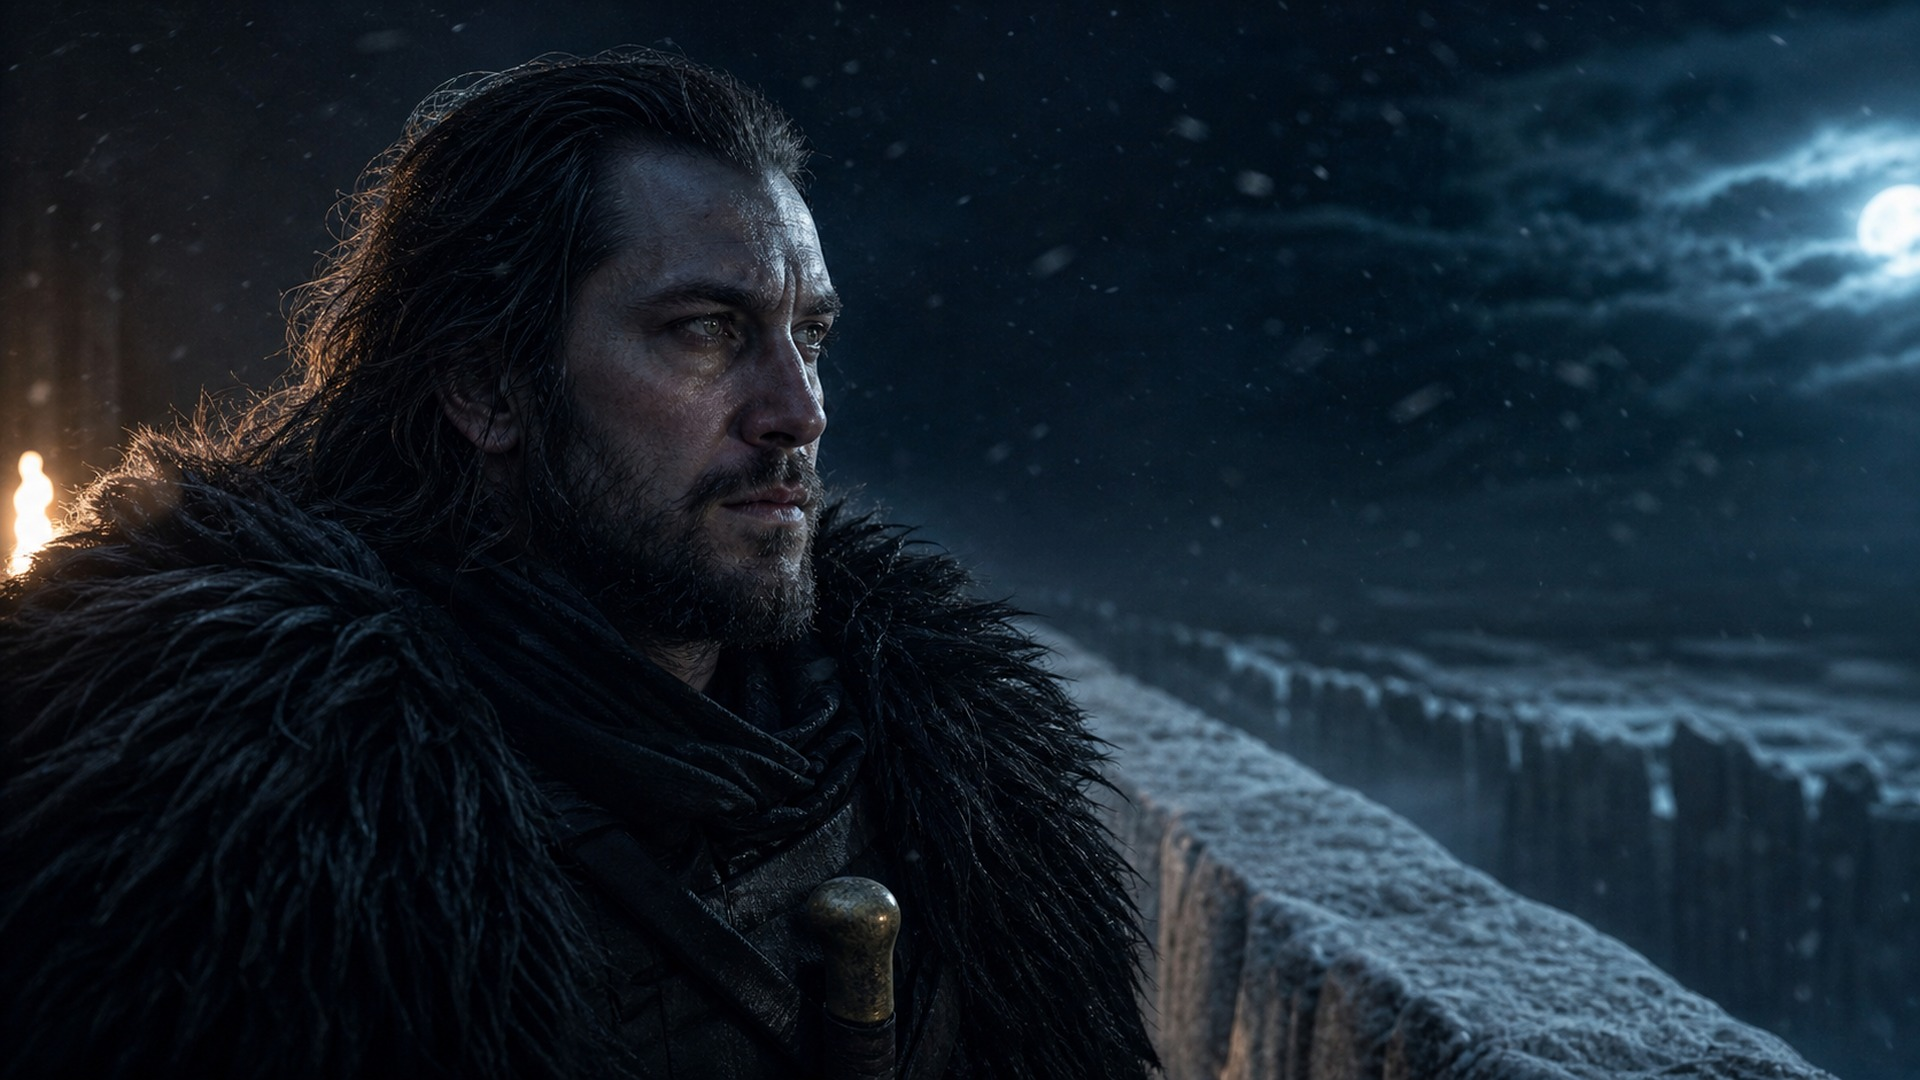
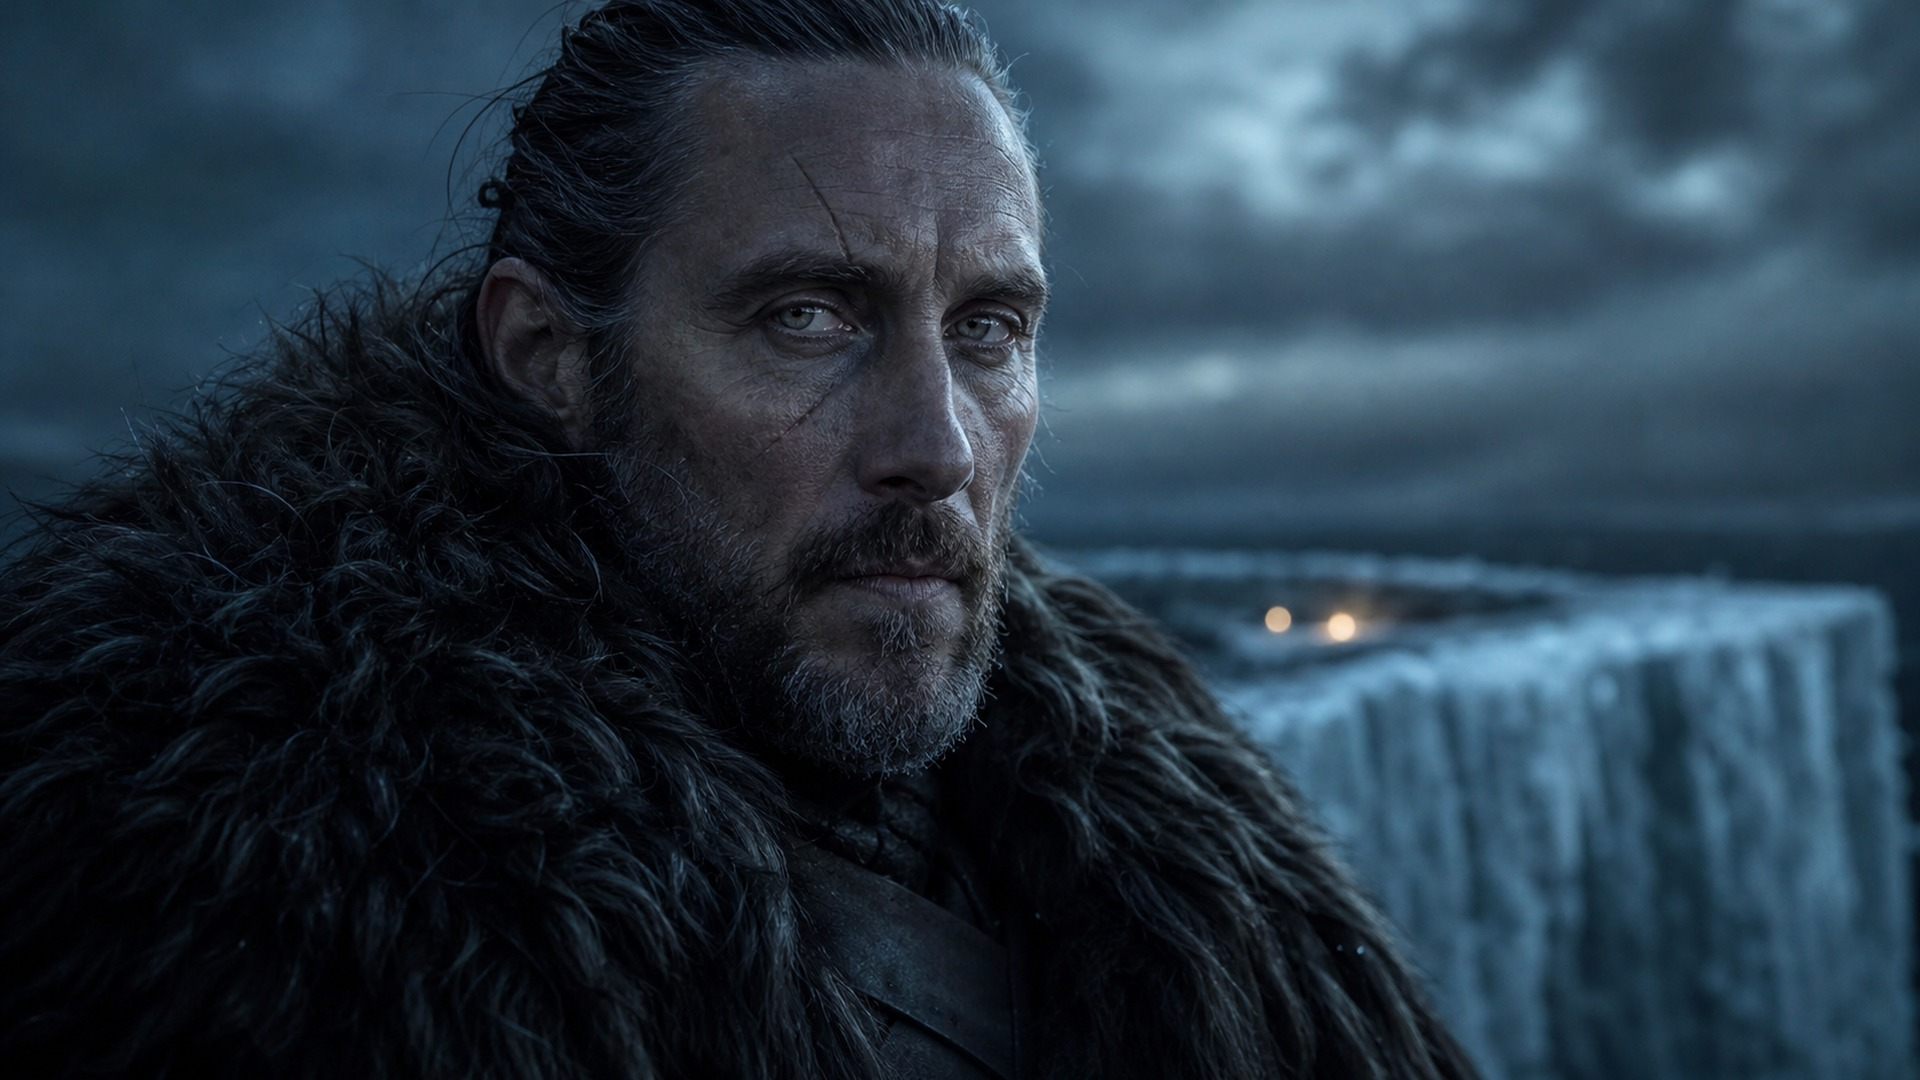
GOT001 likeness audit: no actor faces. Redesign Night's King anchor, book Bran/Sam/Hodor, redo S004/S005/S021/S023/S026; new S030-S033; Westeros policy v1.1 4b, looks v1.1, QC rule; tracker v2.31

diff --git a/projects/dune_archives/data/got001_images.py b/projects/dune_archives/data/got001_images.py
@@ -16,7 +16,7 @@ STYLE = ('ultra-realistic 3D cinematic reconstruction, photoreal, physically bas
          'full-bleed wide 16:9 cinematic frame, important action in the central band.')
 PALETTE = ('Far North palette: glacier blue, charcoal black, bone white and torch amber; breath fog, drifting snow, '
            'moonlight on ice.')
-NO_TEXT = ('Book-accurate original design, NOT the HBO TV design, original faces not resembling any actor. '
+NO_TEXT = ('Book-accurate original design, NOT the HBO TV design. Every face is an invented unknown person who must NOT resemble any actor or celebrity, especially the cast of Game of Thrones or House of the Dragon. '
            'No text, letters, runes, logos or symbols anywhere in the image.')
 NEGATIVE = ('text, letters, runes, words, watermark, logo, caption, actor likeness, celebrity, TV still, cartoon, anime, '
             'illustration, oversaturated, neon, gore, blood, plate armour in Age of Heroes scenes, horned helmets, '
@@ -26,19 +26,14 @@ CAMERA = {'EW': 'epic wide shot, low horizon, 24mm lens', 'EST': 'establishing s
           'INS': 'macro insert, 100mm lens', 'OH': 'high overhead view'}
 
 CAST = {
-    'NIGHTS_KING': ('the Night\'s King, thirteenth Lord Commander of the Night\'s Watch, a First Men warrior of about '
-                    'thirty-five, long solemn northern face, dark brown hair to the shoulders, short dark beard, grey eyes, '
-                    'proud and utterly fearless expression, all in black: roughspun wool, black boiled leather, heavy black '
-                    'fur cloak, a bronze-hilted bronze longsword'),
+    'NIGHTS_KING': ("the Night's King, thirteenth Lord Commander of the Night's Watch, a First Men warrior of about forty, a gaunt hard weathered face with hollow cheeks, high cheekbones and a long straight nose, pale grey eyes, iron-grey streaked dark hair pulled back tight into a single warrior's braid, a close-cropped grey-shot beard, a thin hard mouth, frost-reddened skin, an old pale scar through one eyebrow, utterly fearless expression, all in black: roughspun wool, black boiled leather, a heavy black bearskin cloak, a bronze-hilted bronze longsword"),
     'CORPSE_QUEEN': ('the corpse queen, an ageless woman of unearthly beauty, skin white as the moon with a faint blue chill, '
                      'luminous eyes like blue stars, long straight silver-white hair, high-necked flowing robes of frost-pale '
                      'grey with white fur at the collar, fully covered, no jewellery, serene and unsettling'),
     'OLD_NAN': ('Old Nan, an extremely old woman, tiny and bent, deeply wrinkled face, pale filmy eyes, a few wisps of white '
                 'hair under a plain linen cap, grey wool shawl, knitting needles in her hands'),
-    'BRAN': ('Bran Stark, a boy of about ten, thick auburn hair, blue eyes, thoughtful face, grey wool and a brown fur cloak; '
-             'his legs are crippled, so he rides in a wicker basket'),
-    'SAM': ('Samwell Tarly, a very heavy young man of about sixteen, round soft pink face, beardless, kind frightened eyes, '
-            'Night\'s Watch blacks of worn wool and a black cloak'),
+    'BRAN': ('Bran Stark as in the books, a slight boy of nine with thick AUBURN-RED Tully hair and deep blue Tully eyes, a thoughtful freckled face, grey wool and a brown fur cloak; his legs are crippled, so he rides in a wicker basket'),
+    'SAM': ("Samwell Tarly as in the books, a YOUNG MAN of seventeen with fully adult proportions, enormously fat, a round soft PINK moon face with several chins, clean-shaven smooth skin, fine fair sandy-blond hair, small pale eyes, soft plump hands, kind and frightened, Night's Watch blacks of worn wool straining over his belly and a black cloak, NOT a child"),
     'COLDHANDS': ('Coldhands, a rider in the black of the Night\'s Watch, face hidden behind a black wool scarf so only shadowed '
                   'eyes show, hands black and bloodless, riding a huge grey elk with broad antlers'),
     'JORAMUN': ('Joramun, King-beyond-the-Wall in the Age of Heroes, a huge wildling chieftain with a wild grey-streaked beard, '
@@ -47,7 +42,7 @@ CAST = {
     'KING_OF_WINTER': ('the Stark King of Winter in the Age of Heroes, a tall stern man with a long solemn face, dark hair, grey '
                        'eyes and a short dark beard, a grey direwolf pelt over his shoulders, bronze scale and furs, wearing '
                        'an open circlet of bronze surmounted by nine black iron spikes shaped like longswords'),
-    'HODOR': 'Hodor, a gentle simple giant of a stableman nearly seven feet tall, shaggy brown hair and beard, plain brown wool',
+    'HODOR': ('Hodor, a gentle simple-minded GIANT of a stableman nearly seven feet tall, towering head and shoulders over everyone, huge and broad, a slack amiable face with a bushy brown beard and shaggy brown hair, plain brown wool'),
     'MEERA': 'Meera Reed, a lean young woman of sixteen, brown hair, green eyes, worn green-brown leathers, a three-pronged frog spear and a net',
     'JOJEN': 'Jojen Reed, a small solemn boy of thirteen, green eyes, green-brown clothes',
     'SUMMER': 'Summer, a huge silver-grey direwolf with golden eyes',
@@ -60,7 +55,7 @@ CAST = {
     'SHOW_NK': ('a tall gaunt figure seen ONLY as a dark silhouette, a ring of small icy horns forming a crown on his bald '
                 'head, no face visible'),
     'GIANT': 'a giant as in the books: ten to twelve feet tall, covered in thick shaggy hair, massive shoulders, broad flat face',
-    'YGRITTE': 'Ygritte, a young wildling woman with thick wild red hair, a freckled face and pug nose, furs and a horn-and-weirwood bow',
+    'YGRITTE': ("Ygritte as in the books, a wildling spearwife of about eighteen with thick wild red hair 'kissed by fire', a round peasant face, a pug nose, slightly crooked teeth, freckles and pale blue eyes, furs and a horn-and-weirwood bow"),
     'YOUNG_BRAN': 'Bran Stark aged seven, thick auburn hair, blue eyes, small and eager',
     'UNCLE_BRANDON': 'Brandon Stark, a handsome wild young northern lord of twenty, long face, dark hair, grey eyes, fierce grin',
 }

diff --git a/projects/dune_archives/00_master/MASTER_INDEX_AND_TRACKER.md b/projects/dune_archives/00_master/MASTER_INDEX_AND_TRACKER.md
@@ -86,7 +86,7 @@ Folders 10, 11, 12, 19, 21, 22, 23 and 24 are empty on purpose. They fill once p
 |---|---|---|---|---|---|---|---|---|---|---|---|---|
 | DUN003 | Dune Messiah Explained Before Part Three | STANDARD | APPROVED (topic + 15 min + 150 imgs, 2026-11-23) | ☑ | ☑ 15 min | ☑ 150 imgs / 15 batches | v1.0 APPROVED | v1 (178 shots) | B001 ✅ · B002 ✅ · B003 ✅ · B004 ✅ · B005 ✅ · B006 ✅ · B007 4/10 (+Duncan pending, 1 fix) · B008 3/10 | — | — | — |
 | DUN001 | The Butlerian Jihad: The War Against the Thinking Machines | EPIC | **MASTER v1 ON DRIVE** 22_edit `1PpbtA6EKYWP-Inc31NuFSd0R0Y4immpj` (492.8 MB, 11:54, 1080p24, ≈−14.7 LUFS / −0.9 dBTP) — awaiting director review | ☑ | ☑ 11:54 | ☑ 150 imgs / 15 batches | v1.0 APPROVED · rev 1.1 (VI softened, approved) | data/dun001.py (168 cuts, 42 gfx incl. chapter cards) | B001–B015 ✅ **150/150 QC PASS** (anchors: Erasmus, Serena, Vorian, Xavier, Iblis, Agamemnon, Abulurd) | VO ✅ 13/13 · aligned 100% · maps A/B/C ✅ · mix ✅ −14 LUFS/−1 dBTP | — | — |
-| GOT001 | The Night King: Who Was He Really? | EPIC | IN PRODUCTION (script approved; VO 12/12; stills 27/150; CI align triggered) | ☑ | ☑ VO 598.7 s, 12/12 sections → programme ≈10:40 (runtime option A) | ☐ 150 imgs (27 PASS: B001 10/10, B002 10/10, B003 7 PASS + S021/S026 FIX) | v1.0 APPROVED | — | — | — | — | — |
+| GOT001 | The Night King: Who Was He Really? | EPIC | IN PRODUCTION (script approved; VO 12/12; aligned 100%; timeline 10:35; stills 33/150) | ☑ | ☑ VO 598.7 s, 12/12 sections → programme ≈10:40 (runtime option A) | ☐ 150 imgs (33 PASS: B001–B003 30/30, B004 3/10) | v1.0 APPROVED | — | — | — | — | — |
 
 ## E. Data counts (from `00_master/build_summary.json`)
 
@@ -707,5 +707,6 @@ Index/QC v21 Doc: `1Xd5uubuVr8HSOOF7w4-m3S2es9A0PhxvI7hFvTYLZpw`. S012/S016 turn
 | v2.28 | 2026-11-24 | **GOT001 script v1.0 APPROVED** (fact-check fixes: Nightfort, Black Gate location, Coldhands' spells line). End card → WATCH NEXT · BEFORE THE FIRST MEN · The Ancient World of Westeros. Voice-14 VO recorded for H, P, I–VIII (549 s; CA/CB next turn). Look-book + BATCH001 (anchors: Night's King, corpse queen, Old Nan, Bran, Sam, Coldhands, Joramun, King of Winter, Nightfort, Black Gate): 9 PASS, S005 Sam FIX (too young) |
 | v2.29 | 2026-11-24 | **GOT001 VO complete** (CA 9.5 s, CB 20.3 s; 12 takes = 598.7 s). Runtime option A (keep length, no added words) applied by default. `data/got001.py` written: timeline data for all 12 sections, verified word for word against the VO text; 150-shot plan in `data/got001_images.py` (batch JSONs 001–015), 149/150 shots placed (S146 spare). S005 Sam redone (heavy young man, PASS). BATCH002 S011–S019 PASS (show king only as silhouette). Stills 20/150 |
 | v2.30 | 2026-11-24 | GOT001: S020–S029 generated: 8 PASS (broken tower, weirwood courtyard, Bran party arriving, Rat Cook's rat, sentinels in the ice, empty seat, Long Night, the Wall rising), 2 FIX (S021 hall has a stray figure; S026 Night's King reads as the HBO Jon Snow actor). Workflows `got001_align/mix/master.yml` added; music fetch list (10 Kevin MacLeod tracks, all verified in DUN001); whisper name hints for Westeros; **CI align triggered**. Stills 27/150 |
+| v2.31 | 2026-11-25 | **Likeness rule (director): no actor or celebrity faces; book versions of characters.** Audit of all GOT001 face stills: redid S001 (Night's King anchor redesigned: about 40, grey-streaked braid, scarred brow), S004/S023 (Bran now Tully auburn; Hodor towers), S005 (Sam: pink moon face, fair, clean-shaven), S026; S021 redone empty. Spot-check of DUN003 Paul/Chani/Alia/Irulan: no film-cast resemblance. Westeros policy v1.1 §4b, looks v1.1 (Bran, Sam, Hodor, Meera, Jojen, Ygritte, Night's King rows), visual bible QC (face check mandatory, all worlds). New: S030 Brandon the Builder with giants, S031 children of the forest, S032 first oath, S033 brothers on the Wall. CI align 100%; first timeline build 10:35. Stills 33/150 |
 
 > Turn 22 note: the old manifests v11, continuity v1.4 and original tracker Doc have their Drive descriptions set to SUPERSEDED, pointing at the new IDs above. The Drive tracker v2.12 Doc is a snapshot taken before its own ID was added here.

diff --git a/projects/dune_archives/worlds/westeros/WESTEROS_BOOK_LOOKS.md b/projects/dune_archives/worlds/westeros/WESTEROS_BOOK_LOOKS.md
@@ -1,4 +1,4 @@
-# WESTEROS — Book-Accurate Looks (characters, creatures, objects, places) · v1.0 · 2026-11-24
+# WESTEROS — Book-Accurate Looks (characters, creatures, objects, places) · v1.1 · 2026-11-25
 
 Purpose: the image-prompt source of truth. **Books first** (see `WESTEROS_CANON_POLICY.md`).
 
@@ -22,7 +22,7 @@ Ages are at the start of *A Game of Thrones* unless stated. **Show differences**
 | **Jon Snow** (14) | ◻ Stark look: lean, long face, dark brown hair, grey eyes so dark they look almost black. Later carries *Longclaw*. | Not the curly-haired adult of the show. He is a teenager. |
 | **Sansa** (11) | ◻ Tully auburn hair, blue eyes, considered beautiful. As "Alayne Stone" in the Vale: hair dyed dark brown. | — |
 | **Arya** (9) | ◻ Stark look: long horse-like face ("Arya Horseface"), brown hair, grey eyes, thin. Sword *Needle* (a slim bravo's blade). | Much younger than the show. |
-| **Bran** (7) / **Rickon** (3) | ◻ Tully look. | — |
+| **Bran** (7; 9 in ASOS) / **Rickon** (3) | ◻ Tully look: thick auburn-red hair, deep blue eyes. Bran is slight; after the fall he rides in a wicker basket on Hodor's back. | Show Bran has a brown mop; keep him auburn. |
 
 ### House Lannister
 
@@ -56,14 +56,18 @@ Ages are at the start of *A Game of Thrones* unless stated. **Show differences**
 | **Davos Seaworth** | ◻ Stannis shortened the fingers of his left hand by the last joint. Davos kept the finger bones in a pouch around his neck, which was lost at the Blackwater. | — |
 | **Petyr Baelish** | ◻ Slight, grey-green eyes, a small pointed beard, dark hair touched with grey, and a mockingbird pin. | — |
 | **Varys** | ◻ Bald, plump, powdered, smelling of lavender, in soft silks. | — |
-| **Samwell Tarly** | ◻ Very fat, pink-faced, kind. | — |
+| **Samwell Tarly** (17) | ◻ Enormously fat, a soft pink moon face with several chins, soft hands, kind and frightened eyes. Channel design: clean-shaven, fair sandy hair. | Avoid the show's dark-haired, stubbled look. |
 | **Theon / Reek** | ◻ Theon is lean, dark and smirking. As Reek (ADWD) he looks starved and aged, with white hair, broken or missing teeth, and missing fingers and toes (show the hands only in non-graphic framing). | — |
 | **Daario Naharis** | ◻ A three-pronged beard dyed blue, a gold-painted mustache, a gold tooth, and dyed blue curls. | Nothing like the show. |
 | **Missandei** (10) | ◻ A child of Naath with golden eyes. | Not the adult of the show. |
 | **Euron Greyjoy** | ◻ An eyepatch, one "smiling" blue eye, and lips stained blue from shade-of-the-evening. | Nothing like the show. |
 | **Oberyn Martell** | ◻ Lean, sharp-featured, black hair streaked with silver, a widow's peak. | — |
 | **Bloodraven / the three-eyed crow** | ◻ An albino who is nearly a skeleton. One red eye; the other socket is empty, and a weirwood root grows through it. He sits enthroned in roots. | — |
-| **Hodor** | ◻ Close to seven feet tall, simple and gentle. | — |
+| **Hodor** | ◻ Close to seven feet tall, simple and gentle; he towers over everyone. Carries Bran in a wicker basket. | Make him a giant, not just tall. |
+| **Meera Reed** (16) | ◻ Slender, brown hair, green eyes; frog spear (trident), net and a long knife. | — |
+| **Jojen Reed** (13) | ◻ Small and grave; moss-green eyes; dressed all in green. Has greendreams. | — |
+| **Ygritte** | ◻ Red hair "kissed by fire", a round peasant face, pug nose, slightly crooked teeth, pale blue eyes. Not conventionally beautiful. | Avoid the show's look; use these features. |
+| **The Night's King** (legend) | ◻ No physical description in the books. Channel design (GOT001): about 40, gaunt, iron-grey-streaked hair in a braid, a close grey-shot beard, a scar through one eyebrow, pale grey eyes, black bearskin, bronze sword. | Never the show's Night King (show-only, silhouette only). Must not drift to the Jon Snow type. |
 
 ## 2. Creatures
 

diff --git a/projects/dune_archives/worlds/westeros/WESTEROS_CANON_POLICY.md b/projects/dune_archives/worlds/westeros/WESTEROS_CANON_POLICY.md
@@ -1,4 +1,4 @@
-# WESTEROS — Canon Policy (Mythic Archives) · v1.0 · 2026-11-24
+# WESTEROS — Canon Policy (Mythic Archives) · v1.1 · 2026-11-25
 
 **Director's rule (2026-11-24):** *"GoT follows books, interviews, articles, and shows — but books are the first priority. Bring the books to life, from stories to artworks, down to small attributes and characteristics."*
 
@@ -39,6 +39,31 @@
   - Expect TTS and image moderation to block graphic lines, as happened on DUN001. Show softened lines to the director before recording.
 - **No actor likenesses** from HBO or the films. Every character gets an original, book-described design (see the looks file).
 - **No copying any artist's painting.** GRRM-approved art guides *what* a thing is (the throne's scale, asymmetry and steps), not a copy of the composition.
+
+## 4b. Likeness rule: no actor or celebrity faces (v1.1, director's order, 2026-11-25)
+**Why it matters on YouTube:**
+- A photoreal AI image that looks like a real actor counts as synthetic content simulating an identifiable person. That person can file a privacy request to have the whole video removed; blurring is the only partial fix.
+- Realistic likenesses also trigger YouTube's altered-or-synthetic disclosure rules, and HBO's costume and make-up designs (the show's Night King, for example) are their designs.
+- An original, book-described face is legally cleaner and is the channel's selling point: *Westeros the way Martin wrote it*.
+
+**Rules:**
+1. Every face is an invented unknown person. Every prompt says: "must NOT resemble any actor or celebrity, especially the cast of Game of Thrones or House of the Dragon".
+2. Anchor each character on **book attributes that differ from the show casting**. Hair colour, age, build and the scars or marks Martin gives them are the strongest levers (see the looks file).
+3. Show-only characters and scenes (the show's Night King, the show-only Arya scene) appear only as silhouettes, from behind, or as hands and objects. No face, no HBO make-up.
+4. **Face QC is mandatory for every still with a visible face.** View it at full size and ask: "Would a fan name an actor?" If yes or maybe, mark it FIX and redo it. The redo uses the corrected anchor and goes into the next wave of the same turn.
+5. Delivered episodes are not exempt. If a likeness is found later, replace the still and re-render.
+
+**Known drift types** (the generator pulls these looks toward the show; counter them on purpose):
+
+| Look that drifts | Drifts toward | Counter with book attributes |
+|---|---|---|
+| Dark-haired bearded man in a black Night's Watch fur cloak | Show's Jon Snow | Age, gaunt or long face, grey-streaked or braided hair, scars, a different beard |
+| Heavy young man in black | Show's Sam | Pink moon face, several chins, clean-shaven, fair hair |
+| Boy with a brown mop of hair | Show's Bran | Tully auburn-red hair, blue eyes, freckles, age 7–9 |
+| Red-haired wildling girl | Show's Ygritte | Round peasant face, pug nose, slightly crooked teeth, pale blue eyes |
+| Silver-haired young woman | Show's Daenerys | Age 13–15, violet eyes, book costume |
+
+GOT001 casualties fixed in turn 67: S001 (Night's King anchor redesigned), S004, S005, S023, S026.
 
 ## 5. Practical consequence for production
 The visual identity of a Westeros episode comes from **book descriptions**, not the show: the hulking Iron Throne, the Others in their shifting armor, Tyrion's mismatched eyes and ruined nose, the Hound's missing ear, the two-legged dragons. These differences are a selling point: *"This is Westeros the way Martin wrote it."*

diff --git a/projects/dune_archives/26_learning_log/CHANNEL_LEARNING_LOG.md b/projects/dune_archives/26_learning_log/CHANNEL_LEARNING_LOG.md
@@ -207,3 +207,5 @@
 - **Data-file check before images:** writing `data/<ep>.py` before most stills exist lets the anchor and coverage check run early (149/150 shots placed), so later batches generate exactly the shots the edit needs.
 - **Westeros-specific likeness trap:** a dark-haired, bearded man in a black fur cloak of the Night's Watch drifts straight to the HBO Jon Snow look, even with an original-face anchor passed as a reference (S026). For any Night's Watch character, describe the face away from that type (age, gaunter or longer face, hair length, colouring) and check every close or medium shot for actor likeness.
 - **"Abandoned" means no people:** a ruined-hall prompt without "no people, completely empty" got a lone brother added (S021). Say "no people" explicitly when the script says nobody lives there.
+- **Likeness audit (turn 67, director's order):** at contact-sheet size, 4 of 9 GOT001 face stills turned out to read as show actors or to drift toward them (Sam, Bran, the Night's King anchor and its follow-up shot). The fix that worked first time was **changing the book attributes the show cast did not have**: Sam fair-haired, pink and clean-shaven; Bran Tully auburn with freckles; the Night's King older and gaunt with a braid and a scar. Rebuild the anchor first (wave 1), then re-derive the dependent shots from it (wave 2), so the corrected face propagates.
+- **Fix the anchor, not just the shot:** S026 drifted because the S001 anchor was already close to the type. A likeness FIX on any shot means checking its reference anchor too.

diff --git a/projects/dune_archives/13_visual_bible/VISUAL_STYLE_BIBLE.md b/projects/dune_archives/13_visual_bible/VISUAL_STYLE_BIBLE.md
@@ -113,7 +113,7 @@ extra fingers, deformed hands, blurry face, gore
 
 ## 8. QC checklist (per image)
 
-- [ ] Face matches the continuity sheet and resembles no actor.
+- [ ] Face matches the continuity sheet and resembles no actor. **Mandatory for every visible face, in every world (Dune films, HBO's GoT and HotD, the LotR and Hobbit films).** Check at full size: "would a fan name an actor?" If yes or maybe, FIX. See `worlds/westeros/WESTEROS_CANON_POLICY.md` §4b.
 - [ ] Wardrobe, palette and heraldry match the era and house.
 - [ ] Scale reference is present in wide shots.
 - [ ] No text, watermark or logo.
